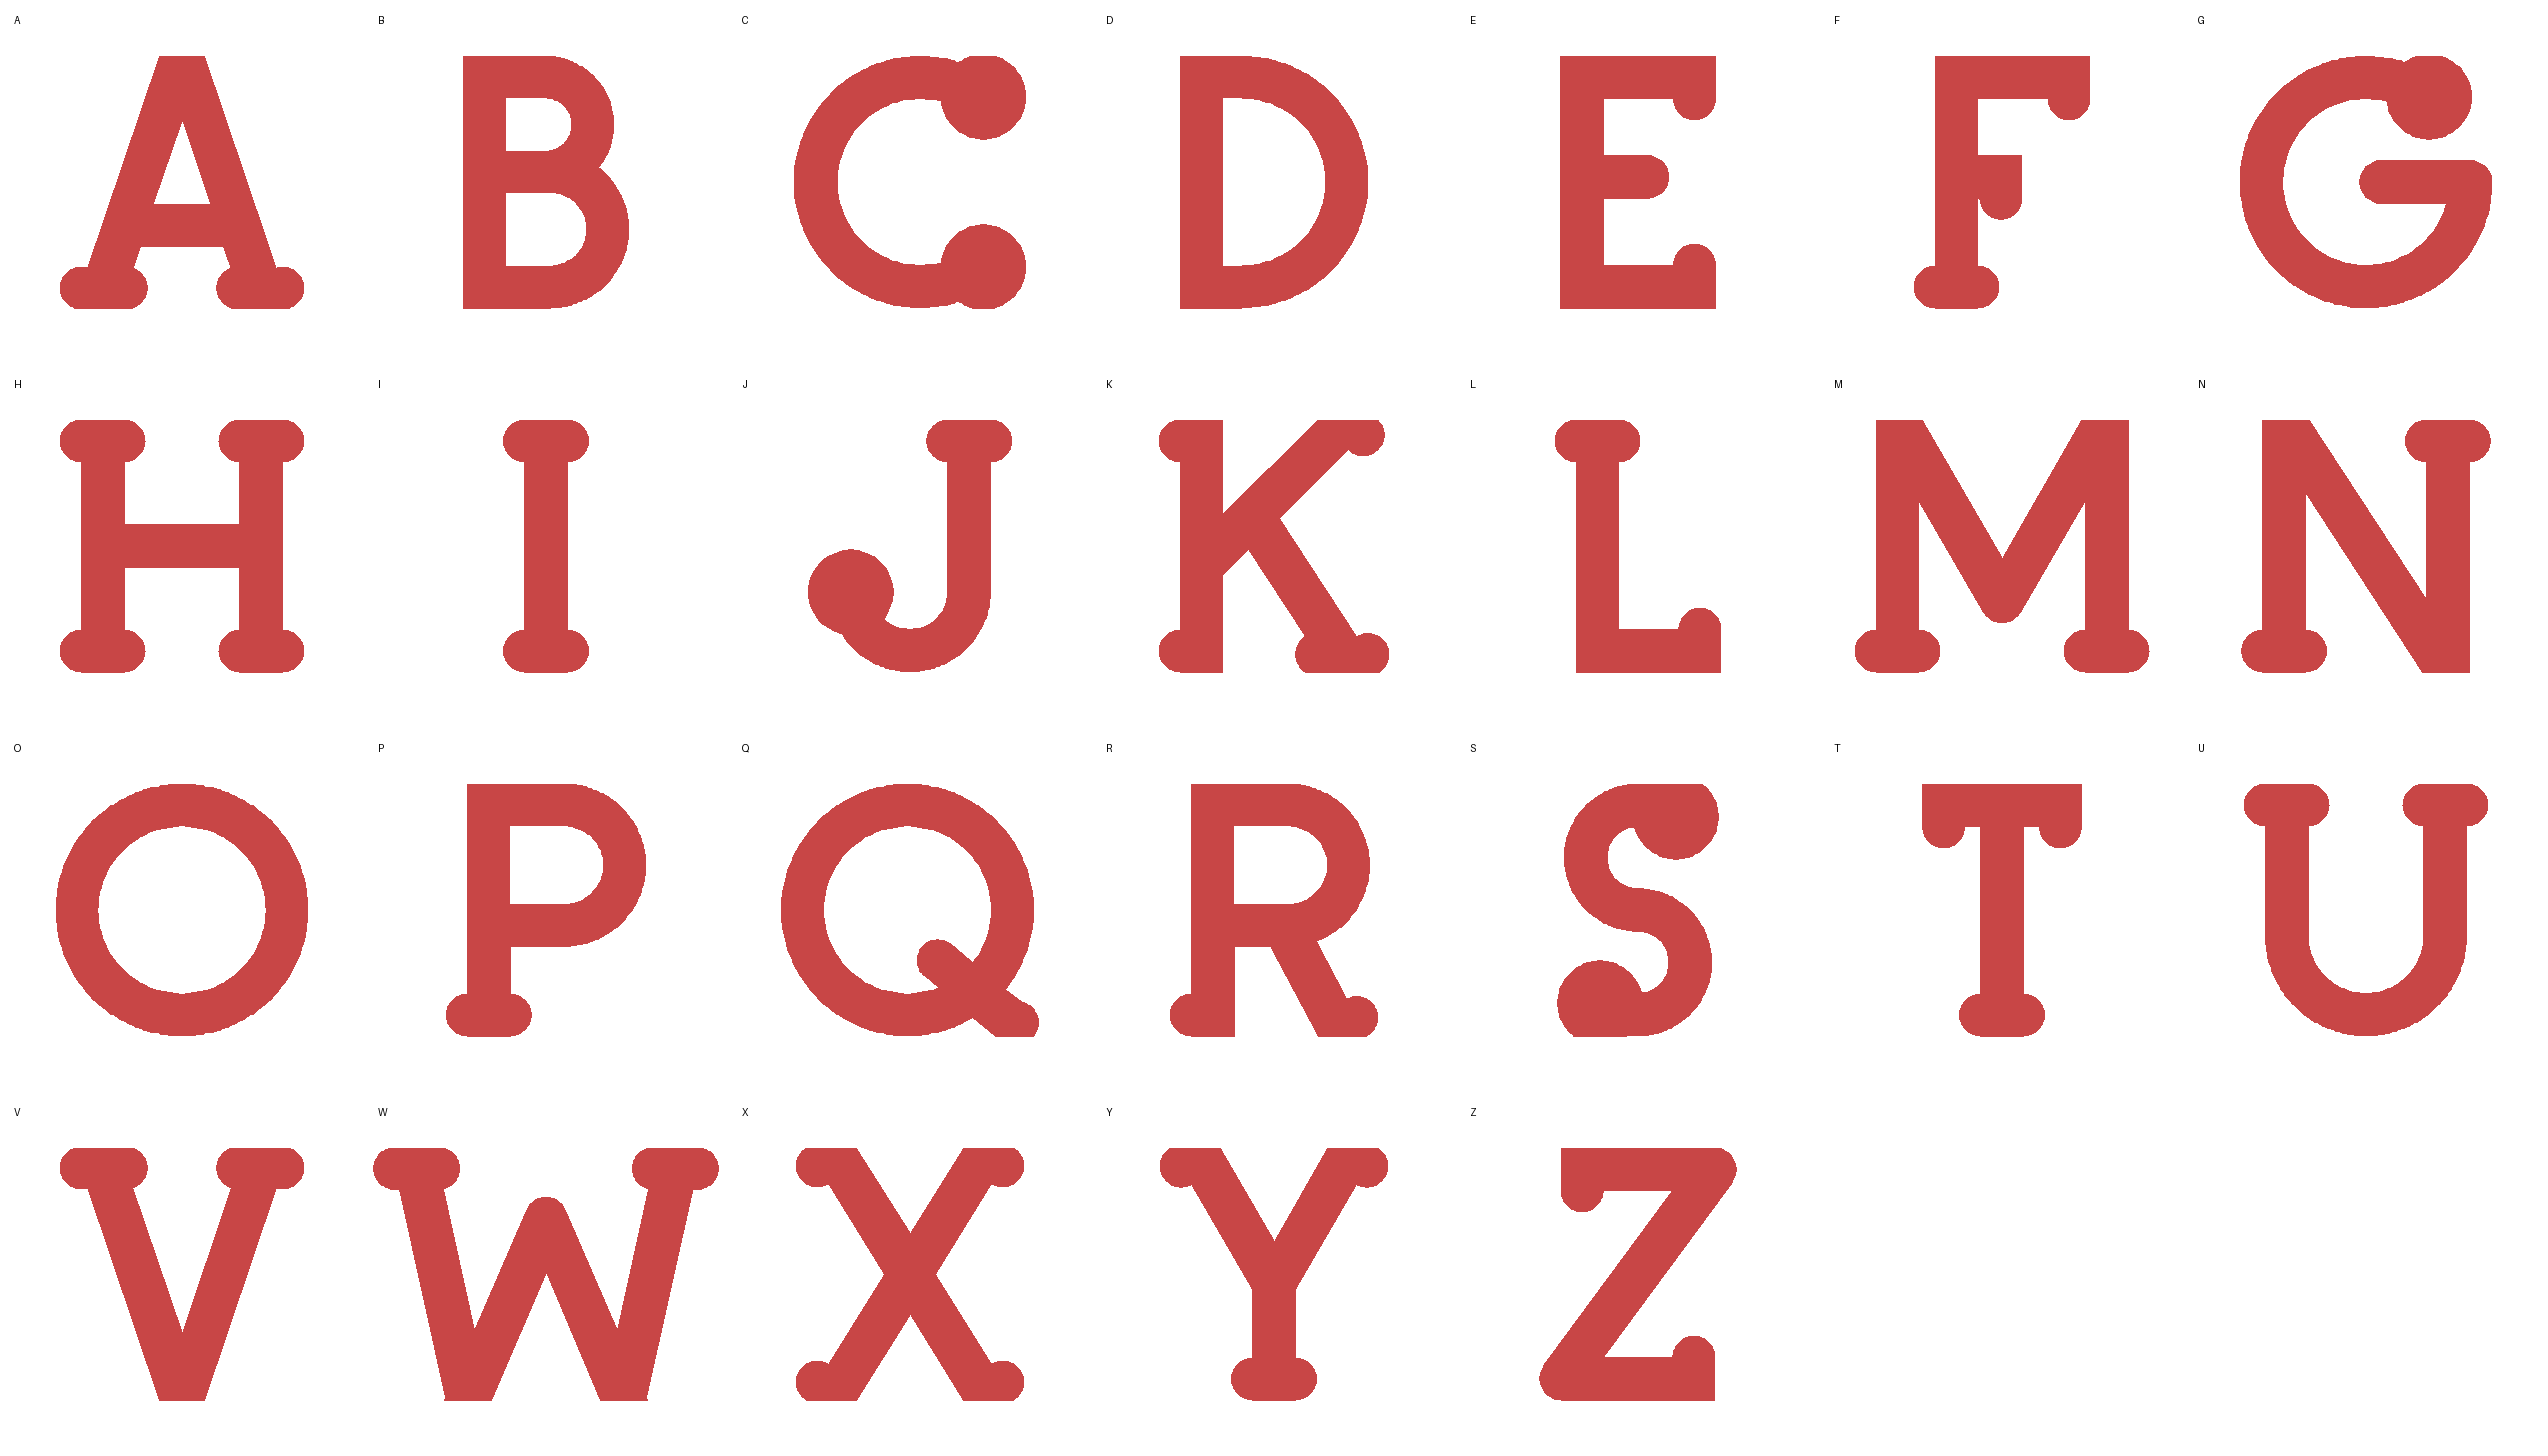
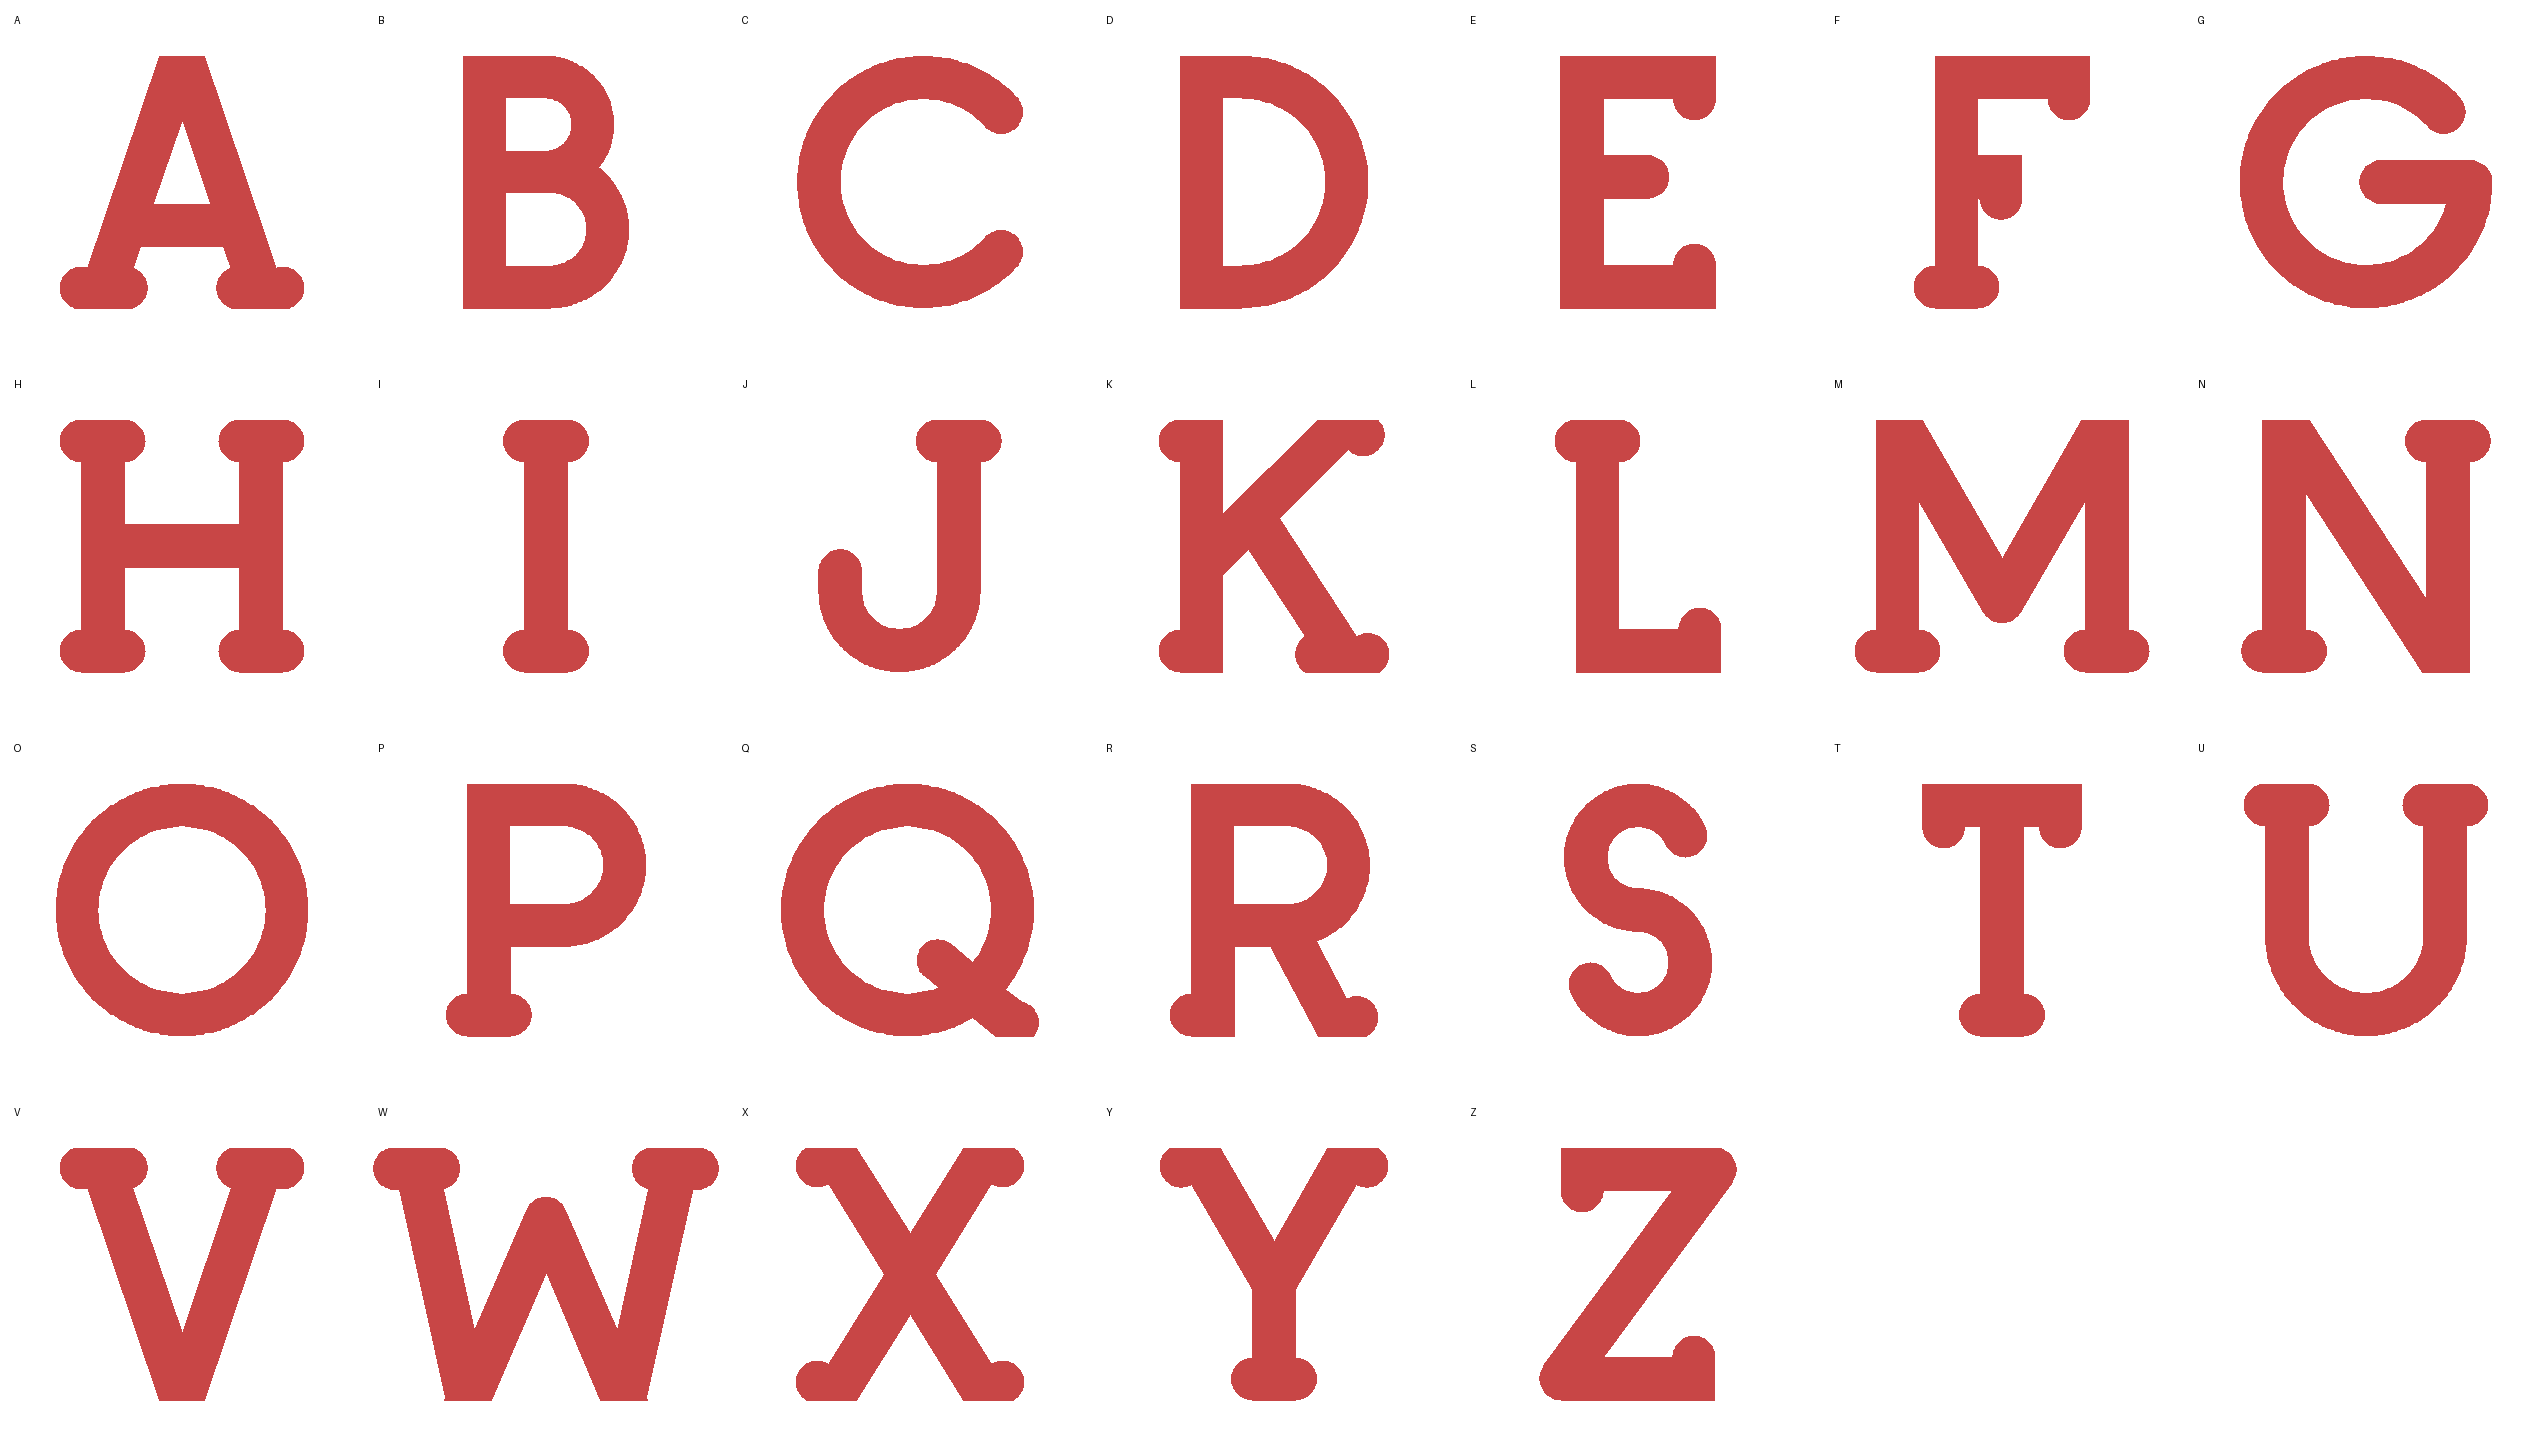
geo font: plain round ends on curve terminals (C G J S) by default
The 6mm ball terminals read as 'weird full large circles' (Alex). Compared
tab half-circles (clipped into flags at the cap line/baseline), plain round
ends and a smaller ball (out/final/geo_font_curve_ends.png): round is the
default (CURVE_END), the others stay selectable.

Claude-Session: https://claude.ai/code/session_01UijCLgun3HGSYQiie44R95

diff --git a/jigsawzall/scripts/geo_font.py b/jigsawzall/scripts/geo_font.py
@@ -132,7 +132,10 @@ def _extend(pl, k, d):
     return [e] + pl if k == 0 else pl + [e]
 
 
-def glyph_units(ch, serif_mm=3.0, cap_mm=18.0, stroke=STROKE):
+CURVE_END = "round"  # curve terminals (C G J S): "tab" | "round" | "ball"
+
+
+def glyph_units(ch, serif_mm=3.0, cap_mm=18.0, stroke=STROKE, curve_end=None):
     """Letter outline in cap units (y up, baseline 0), and its width."""
     w, strokes = LETTERS[ch]
     s = stroke
@@ -191,11 +194,12 @@ def glyph_units(ch, serif_mm=3.0, cap_mm=18.0, stroke=STROKE):
             continue
         own = min(range(len(ext)), key=lambda i: ext[i].distance(Point(p)))
         others = unary_union([b for i, b in enumerate(stroke_bodies) if i != own])
-        if curved and 1e-6 < p[1] < 1 - 1e-6:
-            # a curve's mid-air end (C, G, S, J): a ball terminal as wide as
-            # a stem's serif bulb (stroke + 2 x serif radius)
-            rb = s / 2 + r
-            serifs.append(Point(p[0] - d[0] * r, p[1] - d[1] * r).buffer(rb, quad_segs=24))
+        ce = curve_end or CURVE_END
+        if curved and 1e-6 < p[1] < 1 - 1e-6 and ce != "tab":
+            # a curve's mid-air end (C, G, S, J): plain round end, or a small
+            # ball terminal (stroke + one serif radius wide)
+            rb = s / 2 if ce == "round" else s / 2 + r / 2
+            serifs.append(Point(p[0] - d[0] * (rb - s / 2), p[1] - d[1] * (rb - s / 2)).buffer(rb, quad_segs=24))
             continue
         # the end's two corners: on the baseline / cap line where the stroke
         # is clipped flat, else square across the stroke end
